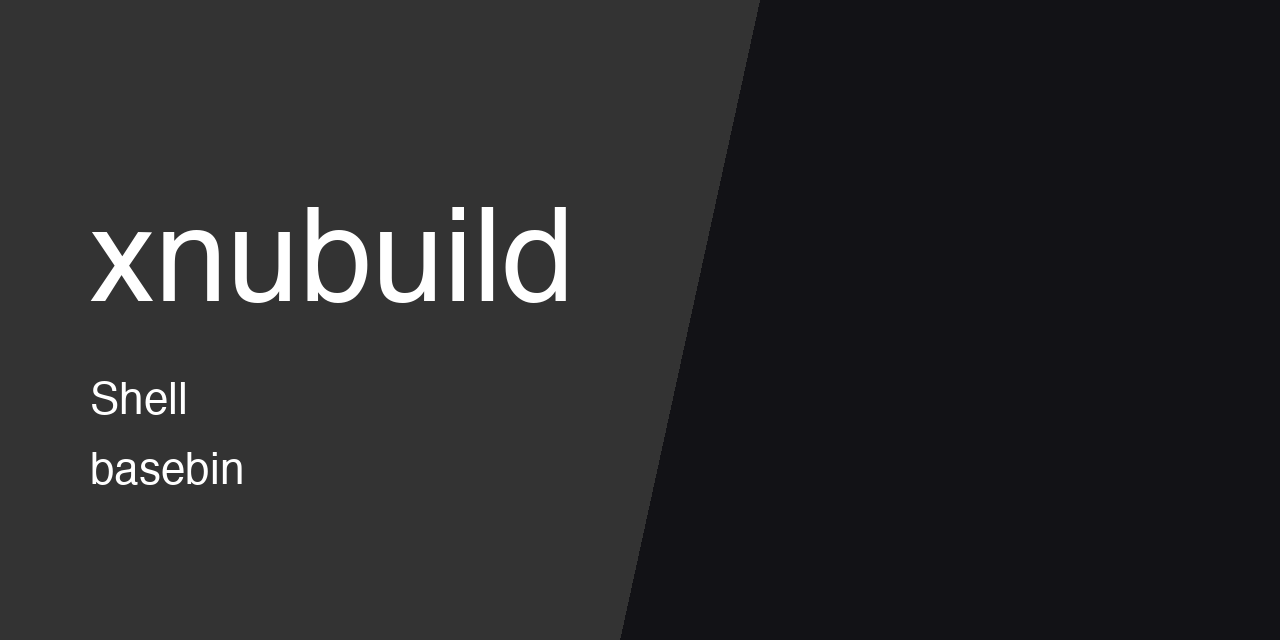
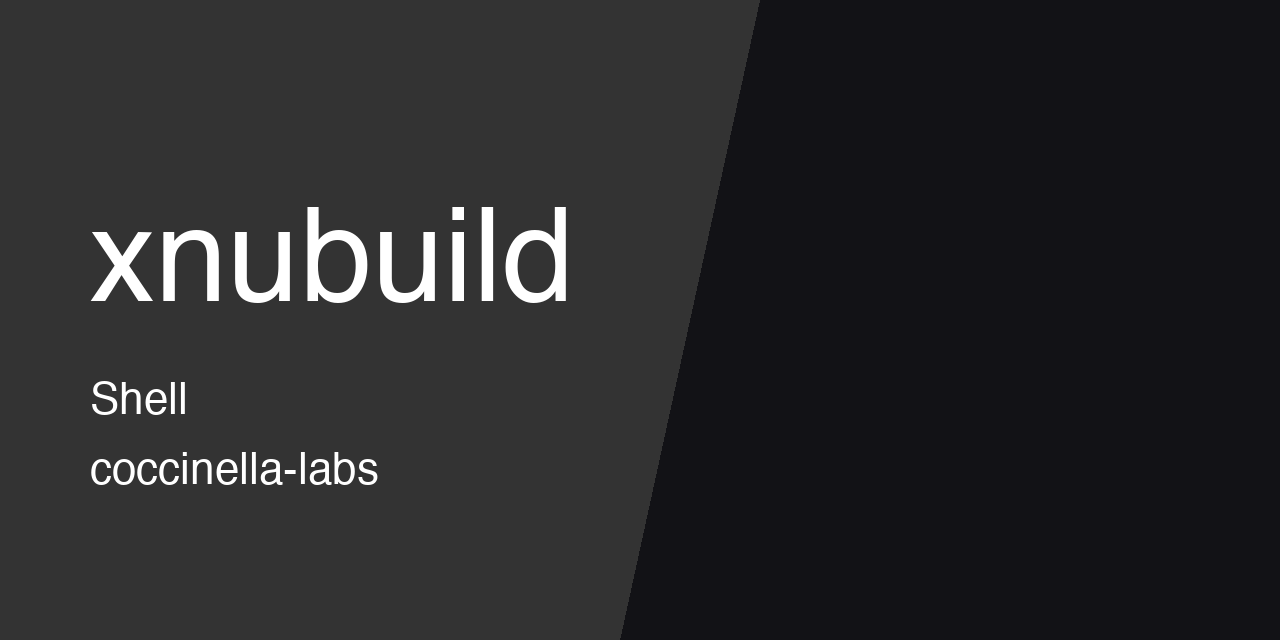
[docs] move thumbnail to coccinella-labs

Changed region(s): [[0.0625, 0.7188, 0.3125, 0.7812]]

diff --git a/README.md b/README.md
@@ -1,5 +1,5 @@
 <p align="center">
-  <img src="https://raw.githubusercontent.com/basebin/xnubuild/main/.github/assets/thumbnail.png" alt="xnubuild" width="100%">
+  <img src="https://raw.githubusercontent.com/Coccinella-Labs/xnubuild/main/.github/assets/thumbnail.png" alt="xnubuild" width="100%">
 </p>
 
 # XNU Build
